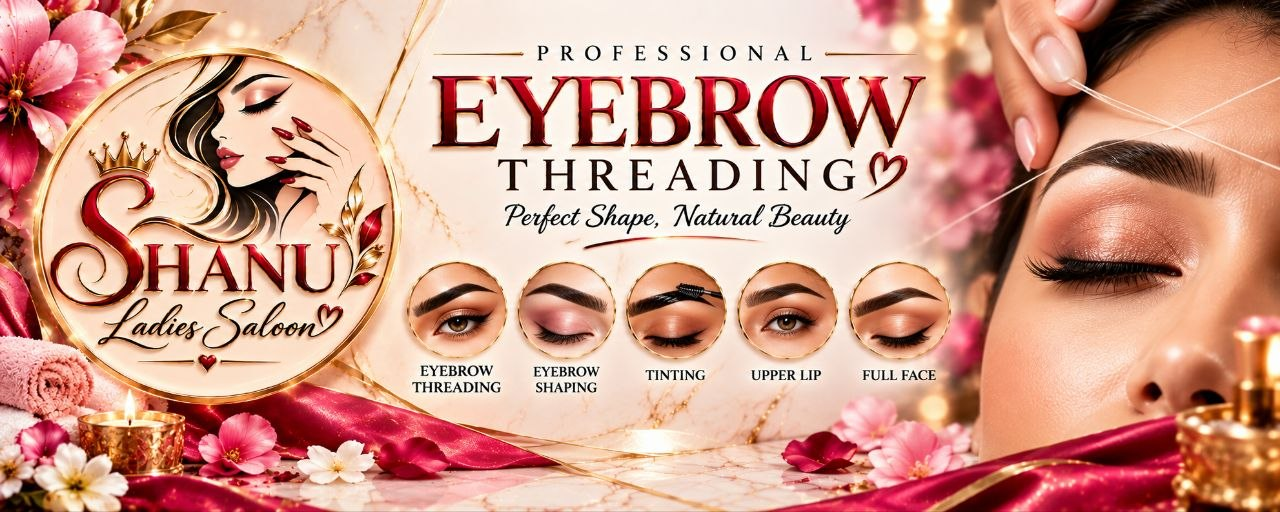
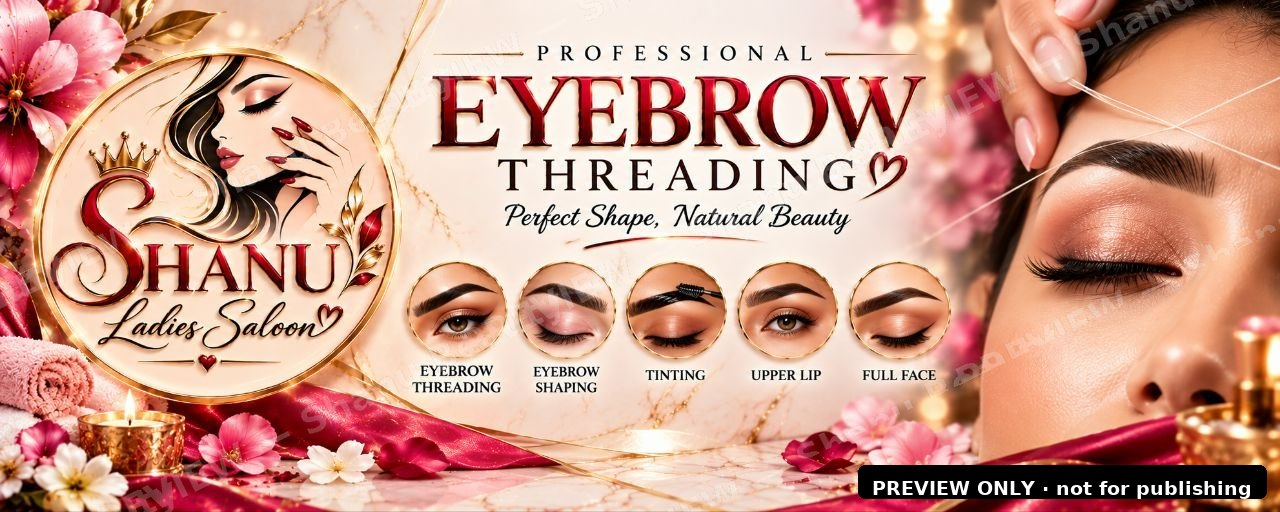
Shanu preview: watermarked photos + page overlay

diff --git a/shanu/index.html b/shanu/index.html
@@ -134,6 +134,9 @@ button:hover{animation:none;transform:translateY(-2px)}
 .hero .banner{display:none}
 .hero .veil{display:none}
 .hero .blob{display:none}
+/* preview watermark overlay (anti-screenshot deterrent) */
+.preview-wm{position:fixed;inset:0;z-index:9998;pointer-events:none;background:url(banner/wm-tile.png) repeat;opacity:.9}
+@media print{.preview-wm{display:none}}
 /* top patti — sirf strip, koi text nahi */
 .ticker.vbar{padding:0;height:9px;background-size:200% 100%;overflow:hidden}
 /* top-of-page banner + slideshow (moved above the hero text) */
@@ -500,5 +503,6 @@ if(fix){fix.style.opacity=0;addEventListener('scroll',()=>{fix.style.opacity=scr
   } catch(e) {}
 })();
 </script>
+<div class="preview-wm" aria-hidden="true"></div>
 </body>
 </html>
